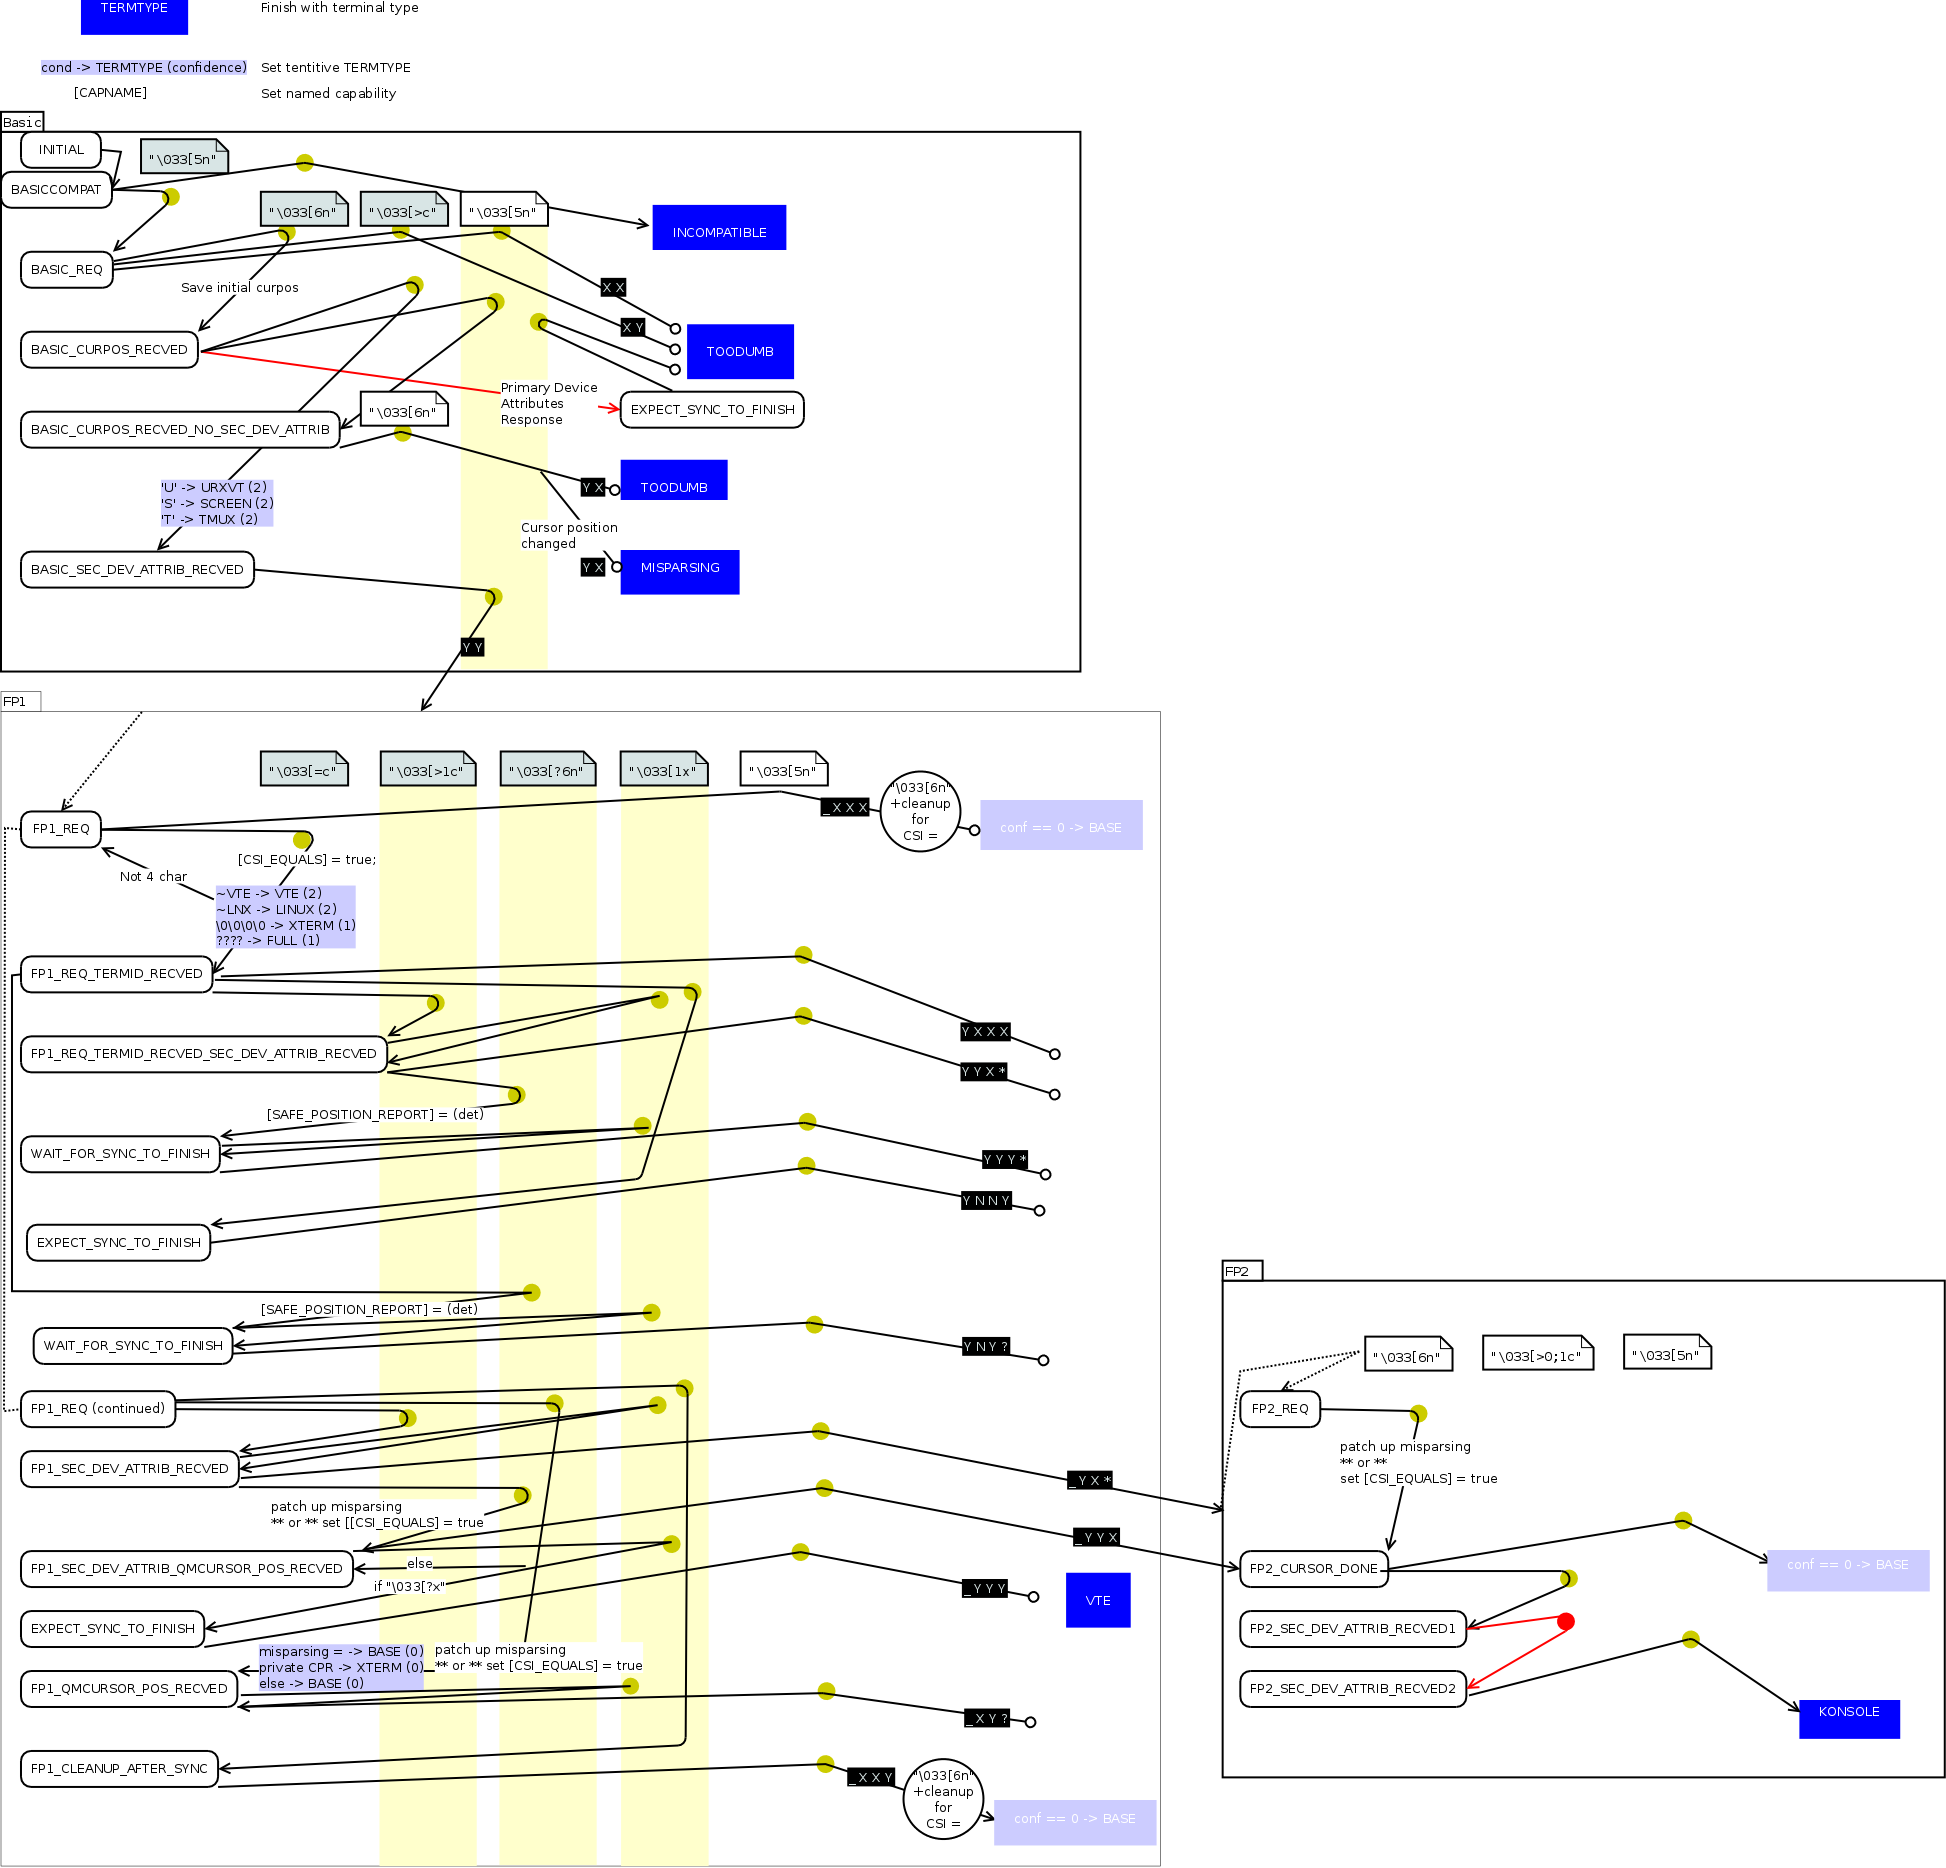
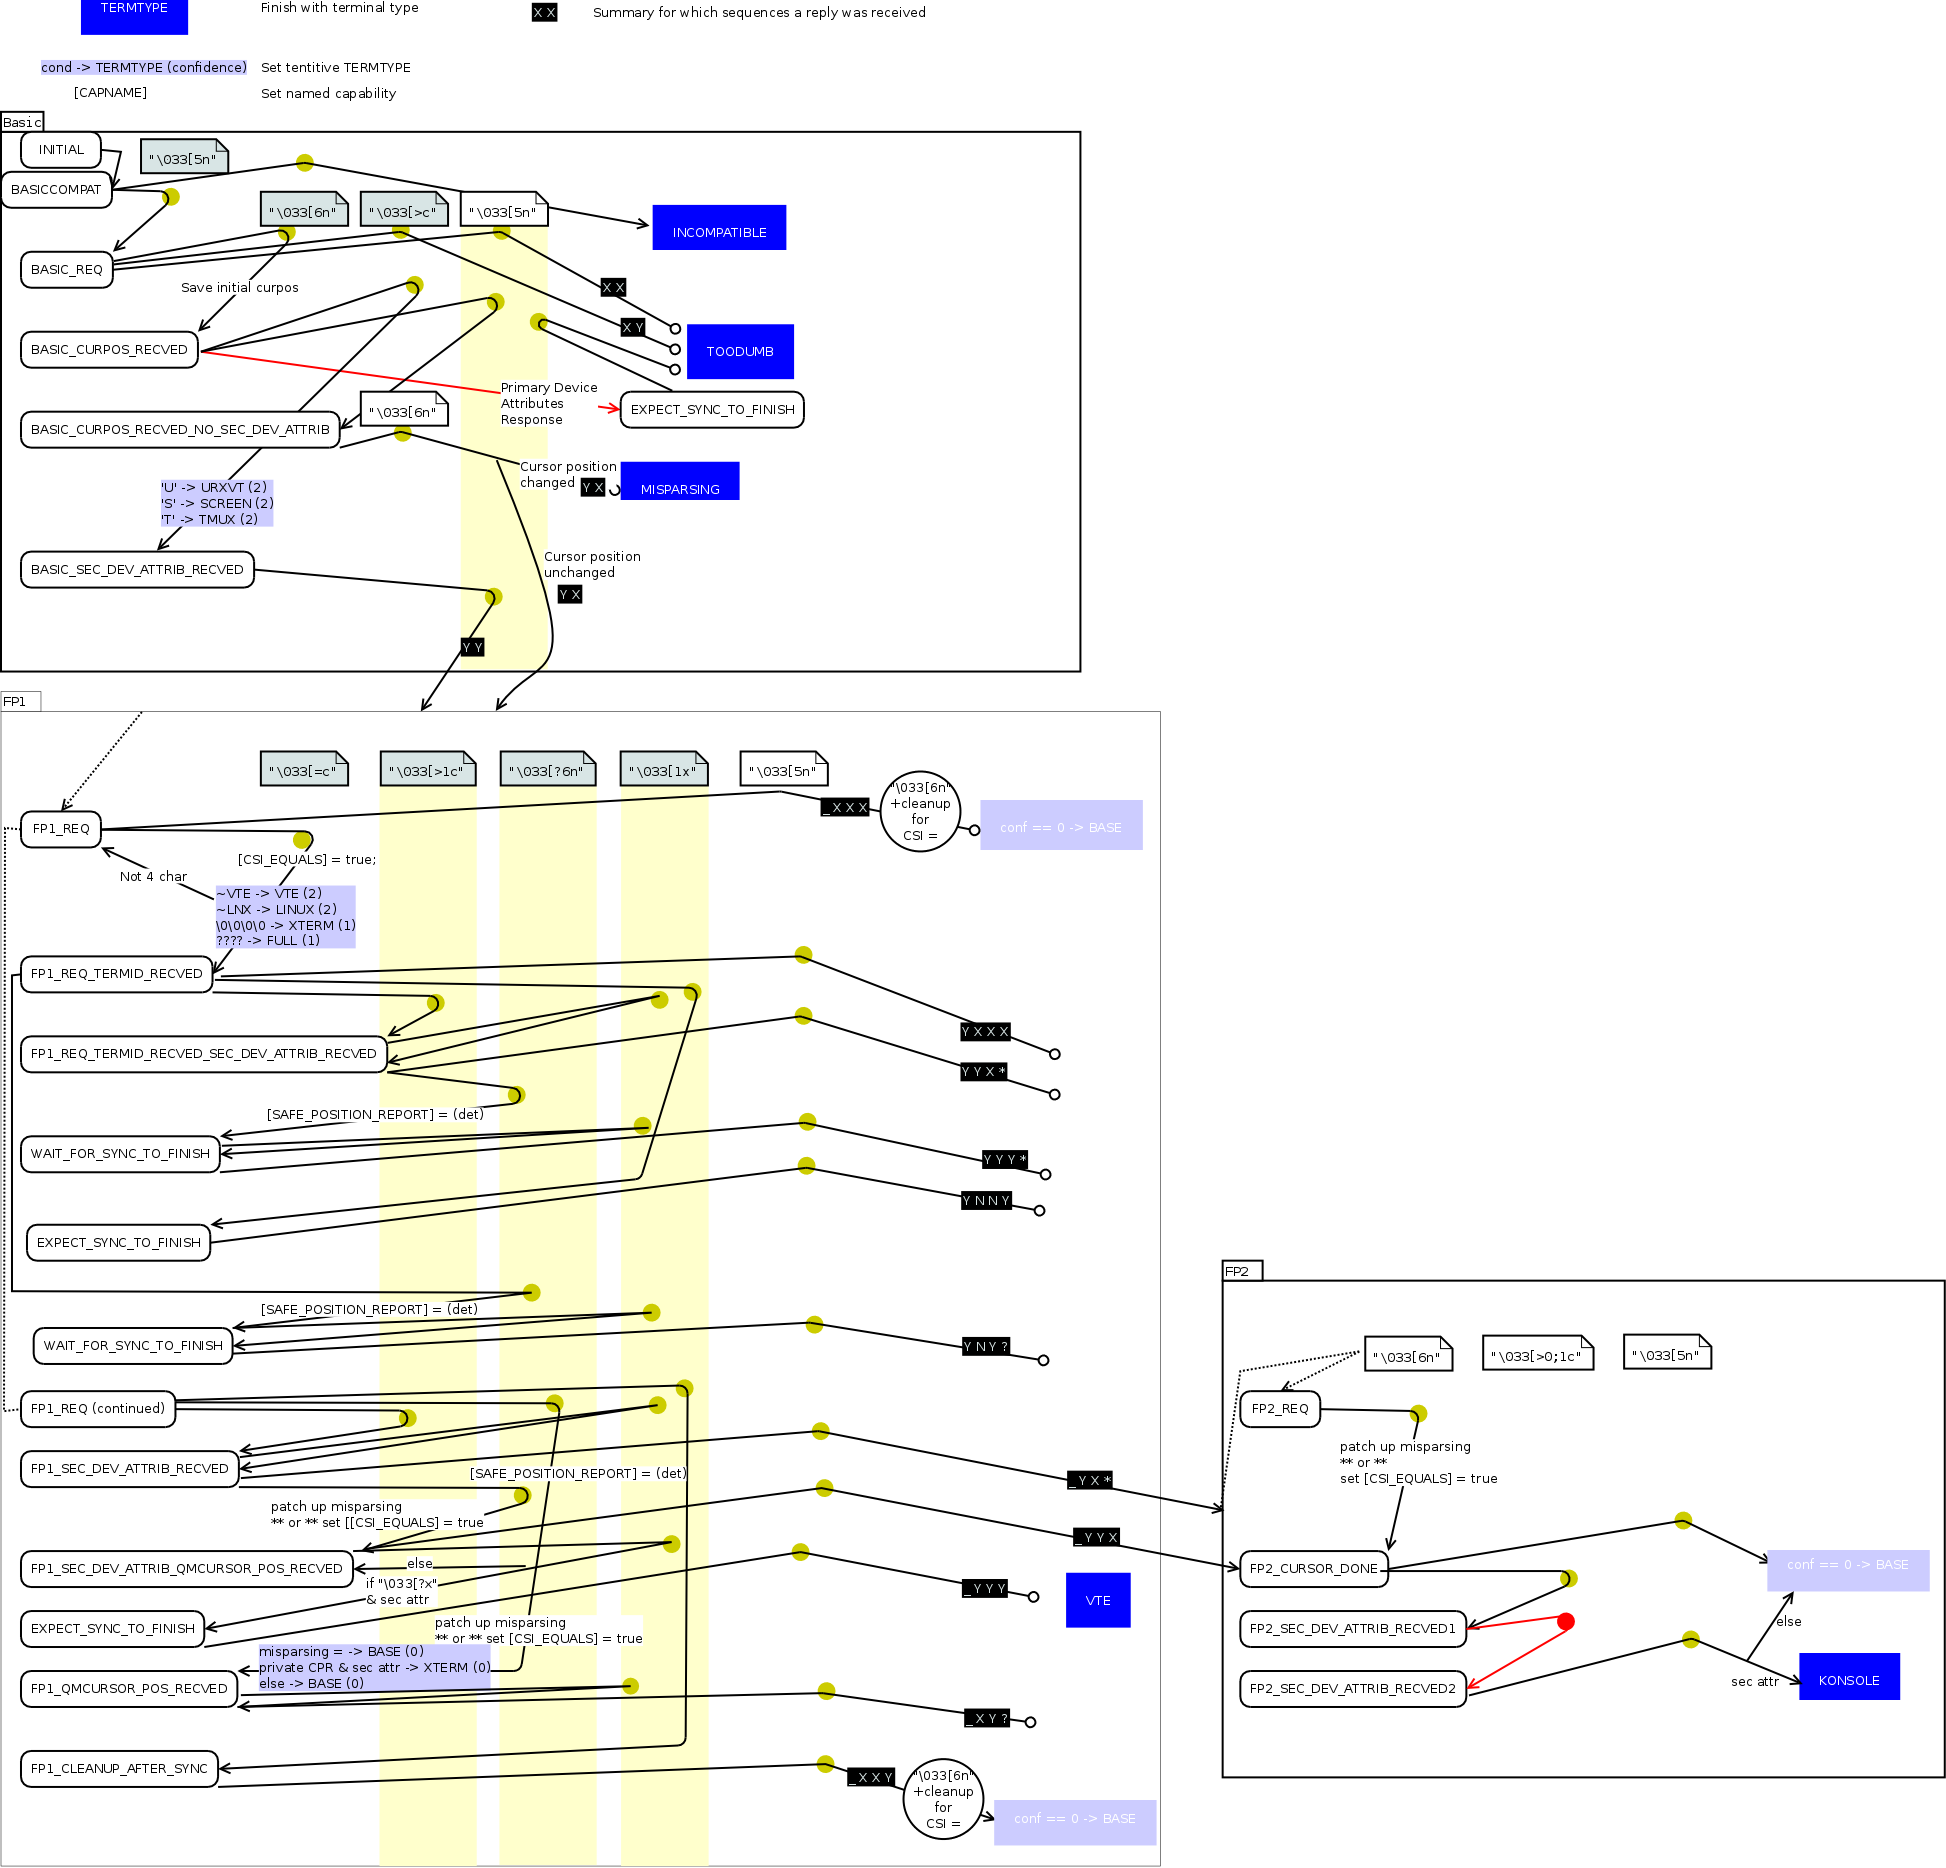
termpaint: fingerprinting: keep going even without secondary device attributes in basic stage.
Linux does not reply to secondary device attributes but later stages still
detect useful information. Also this allows detection via 3rd device
attributes.

Differences in detection:
* linux above 5.1+ is now detected as TT_BASE, without safe cursor postion
  report, with parsing support for '>' and '='. (was: TT_TOODUMP, with parsing support for '>')
* tmux 1.3 to 1.6 is now detected as TT_BASE, without safe cursor postion
  report, with parsing support for '>' and '='. (was: TT_TOODUMB, with parsing support for '>')

diff --git a/termpaint.c b/termpaint.c
@@ -2235,17 +2235,25 @@ static bool termpaintp_terminal_auto_detect_event(termpaint_terminal *terminal, 
             break;
         case AD_BASIC_CURPOS_RECVED_NO_SEC_DEV_ATTRIB:
             if (event->type == TERMPAINT_EV_CURSOR_POSITION) {
-                terminal->terminal_type = TT_TOODUMB;
                 if (terminal->initial_cursor_x == event->cursor_position.x
                         && terminal->initial_cursor_y == event->cursor_position.y) {
                     termpaint_terminal_promise_capability(terminal, TERMPAINT_CAPABILITY_CSI_GREATER);
+
+                    int_puts(integration, "\033[=c");
+                    int_puts(integration, "\033[>1c");
+                    int_puts(integration, "\033[?6n");
+                    int_puts(integration, "\033[1x");
+                    int_puts(integration, "\033[5n");
+                    int_awaiting_response(integration);
+                    terminal->ad_state = AD_FP1_REQ;
+                    return true;
                 } else {
                     termpaint_terminal_disable_capability(terminal, TERMPAINT_CAPABILITY_CSI_GREATER);
                     terminal->terminal_type = TT_MISPARSING;
                     termpaintp_patch_misparsing(terminal, integration, event);
+                    terminal->ad_state = AD_FINISHED;
+                    return false;
                 }
-                terminal->ad_state = AD_FINISHED;
-                return false;
             }
             break;
         case AD_BASIC_SEC_DEV_ATTRIB_RECVED:
@@ -2313,7 +2321,7 @@ static bool termpaintp_terminal_auto_detect_event(termpaint_terminal *terminal, 
                     terminal->terminal_type = TT_BASE;
                 } else {
                     termpaint_terminal_promise_capability(terminal, TERMPAINT_CAPABILITY_CSI_EQUALS);
-                    if (event->cursor_position.safe) {
+                    if (terminal->auto_detect_sec_device_attributes && event->cursor_position.safe) {
                         terminal->terminal_type = TT_XTERM;
                     } else {
                         terminal->terminal_type = TT_BASE;
@@ -2458,12 +2466,13 @@ static bool termpaintp_terminal_auto_detect_event(termpaint_terminal *terminal, 
                 int_awaiting_response(integration);
                 terminal->ad_state = AD_FP2_CURSOR_DONE;
                 return true;
-            } else if (event->type == TERMPAINT_EV_RAW_DECREQTPARM && event->raw.length == 4 && memcmp(event->raw.string, "\033[?x", 4) == 0) {
-                terminal->terminal_type = TT_VTE;
-                terminal->ad_state = AD_EXPECT_SYNC_TO_FINISH;
-                return true;
             } else if (event->type == TERMPAINT_EV_RAW_DECREQTPARM) {
-                // ignore
+                if (terminal->auto_detect_sec_device_attributes && event->raw.length == 4 && memcmp(event->raw.string, "\033[?x", 4) == 0) {
+                    terminal->terminal_type = TT_VTE;
+                    terminal->ad_state = AD_EXPECT_SYNC_TO_FINISH;
+                } else {
+                    // ignore
+                }
                 return true;
             }
             break;
@@ -2499,7 +2508,11 @@ static bool termpaintp_terminal_auto_detect_event(termpaint_terminal *terminal, 
                 terminal->ad_state = AD_FINISHED;
                 return false;
             } else if (event->type == TERMPAINT_EV_RAW_SEC_DEV_ATTRIB) {
-                terminal->terminal_type = TT_KONSOLE;
+                if (terminal->auto_detect_sec_device_attributes) {
+                    terminal->terminal_type = TT_KONSOLE;
+                } else if (terminal->terminal_type_confidence == 0) {
+                    terminal->terminal_type = TT_BASE;
+                }
                 terminal->ad_state = AD_FP2_SEC_DEV_ATTRIB_RECVED2;
                 return true;
             }
